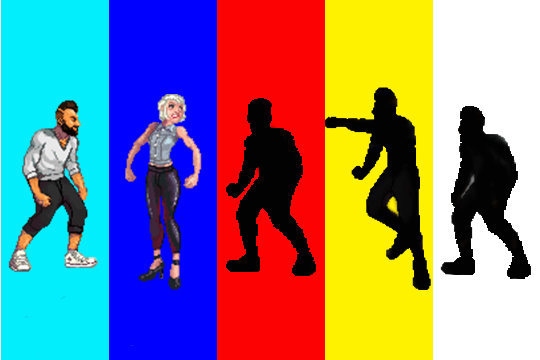
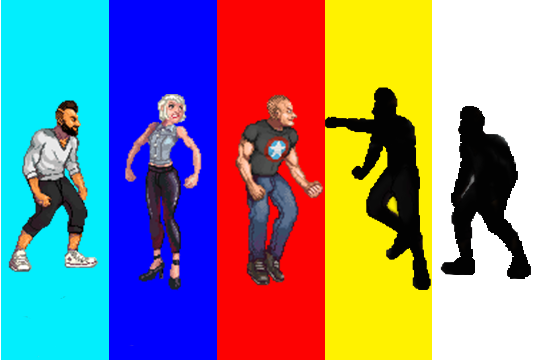
basic_healthbars_and_brandon_sprite
Adds human player healthbars, increases evil clone health, adds sprite for Brandon, modifies character select entity to feature Brandon as well.

Changed region(s): [[0.4148, 0.2444, 0.6222, 0.7944]]

diff --git a/lib/game/entities/human.js b/lib/game/entities/human.js
@@ -26,6 +26,7 @@ ig.module(
     accelGround: 2100,
     accelAir: 2900,
     jump: 2900,
+    maxHealth: 100,
     health: 100,
     flip: true,
     walkingDirection: null,
@@ -182,6 +183,28 @@ ig.module(
 
       // Emit our player actions here
 
+    },
+    draw: function(){
+      // border/background for healthbar
+      ig.system.context.fillStyle = "rgb(0,0,0)";
+      ig.system.context.beginPath();
+      ig.system.context.rect(
+                (this.pos.x - ig.game.screen.x) * ig.system.scale,
+                (this.pos.y - ig.game.screen.y - 8) * ig.system.scale,
+                this.size.x * ig.system.scale, 4 * ig.system.scale);
+      ig.system.context.closePath();
+      ig.system.context.fill();
+
+      // health for health bar
+      ig.system.context.fillStyle = "rgb(255,0,0)";
+      ig.system.context.beginPath();
+      ig.system.context.rect(
+                (this.pos.x - ig.game.screen.x + 1) * ig.system.scale,
+                (this.pos.y - ig.game.screen.y - 7) * ig.system.scale,
+                ((this.size.x - 2) * (this.health / this.maxHealth)) * ig.system.scale, 2 * ig.system.scale);
+      ig.system.context.closePath();
+      ig.system.context.fill();
+      this.parent();
     }
   });
 

diff --git a/lib/game/entities/select.js b/lib/game/entities/select.js
@@ -28,11 +28,17 @@ ig.module (
           ig.game.loadLevelDeferred(LevelBattleroom1);
         }
 
+      } else if ( mouseX > 216 && mouseX < 324 ) {
+        if(ig.input.pressed('mouse1')){
+          ig.game.chosenCharacter = 'brandon';
+          ig.game.currentLevel = 'battleroom1';
+          ig.game.loadLevelDeferred(LevelBattleroom1);
+        }
+
       } else {
         this.currentAnim = this.anims.idle;
       }
       this.parent();
     }
-
   });
 });

diff --git a/lib/game/entities/evilClone.js b/lib/game/entities/evilClone.js
@@ -26,7 +26,7 @@ ig.module(
     accelGround: 2100,
     accelAir: 2900,
     jump: 2900,
-    health: 20,
+    health: 30,
     speed: 3,
     flip: true,
 
